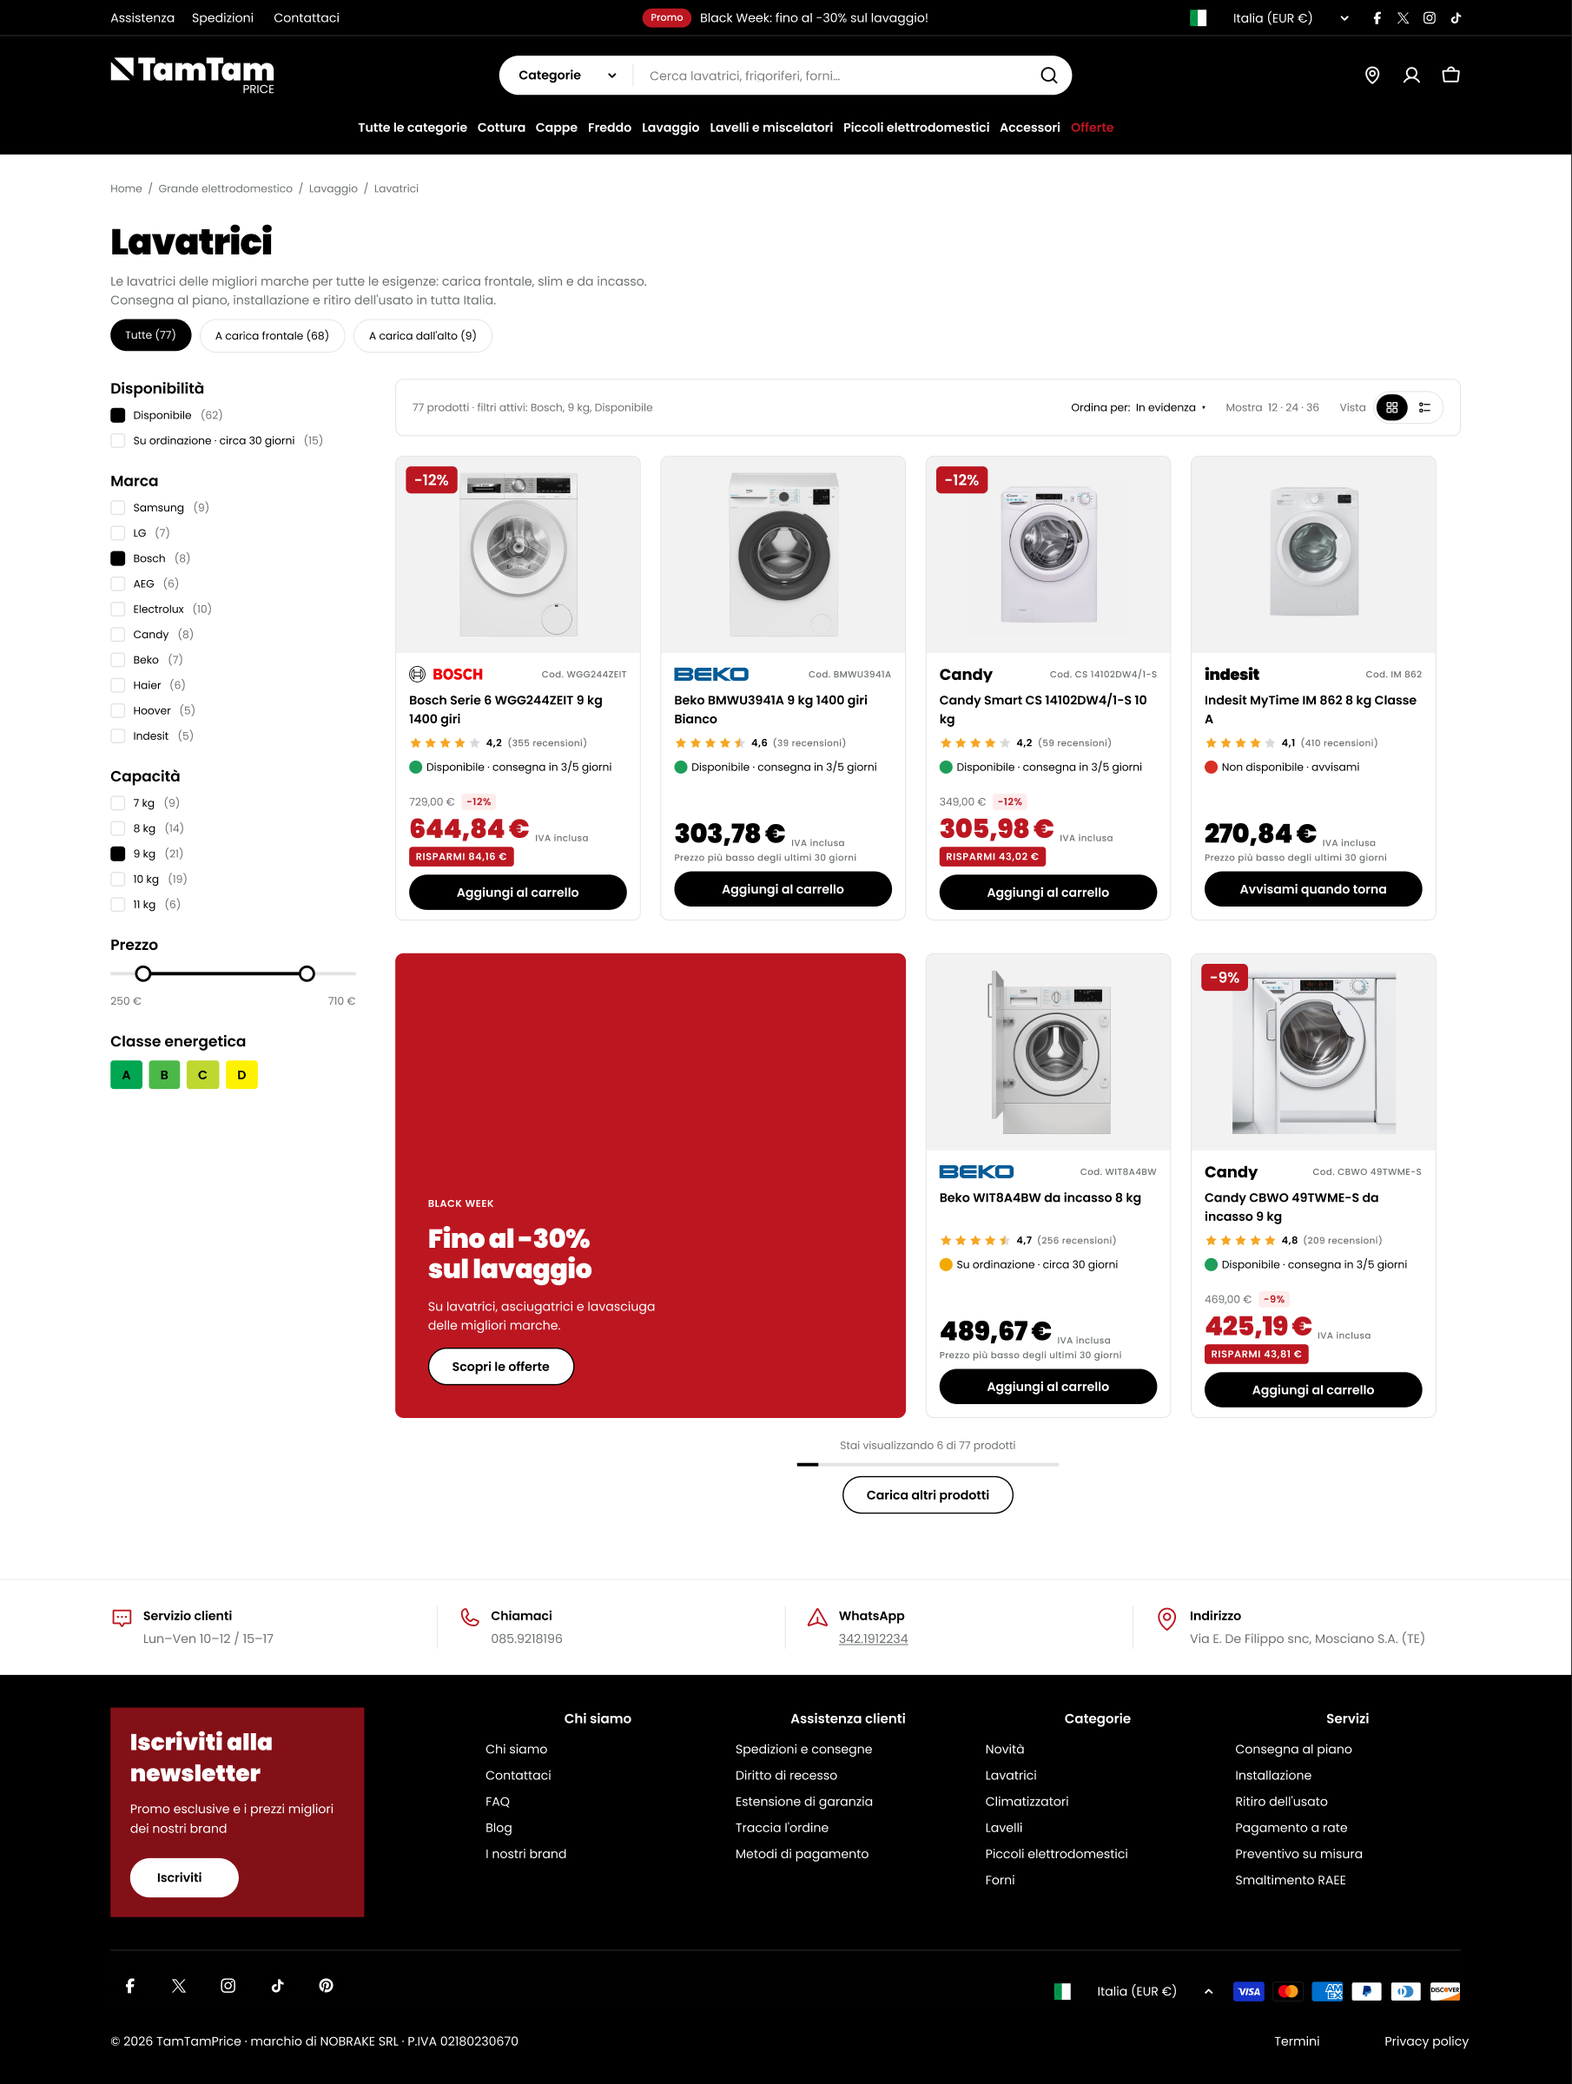
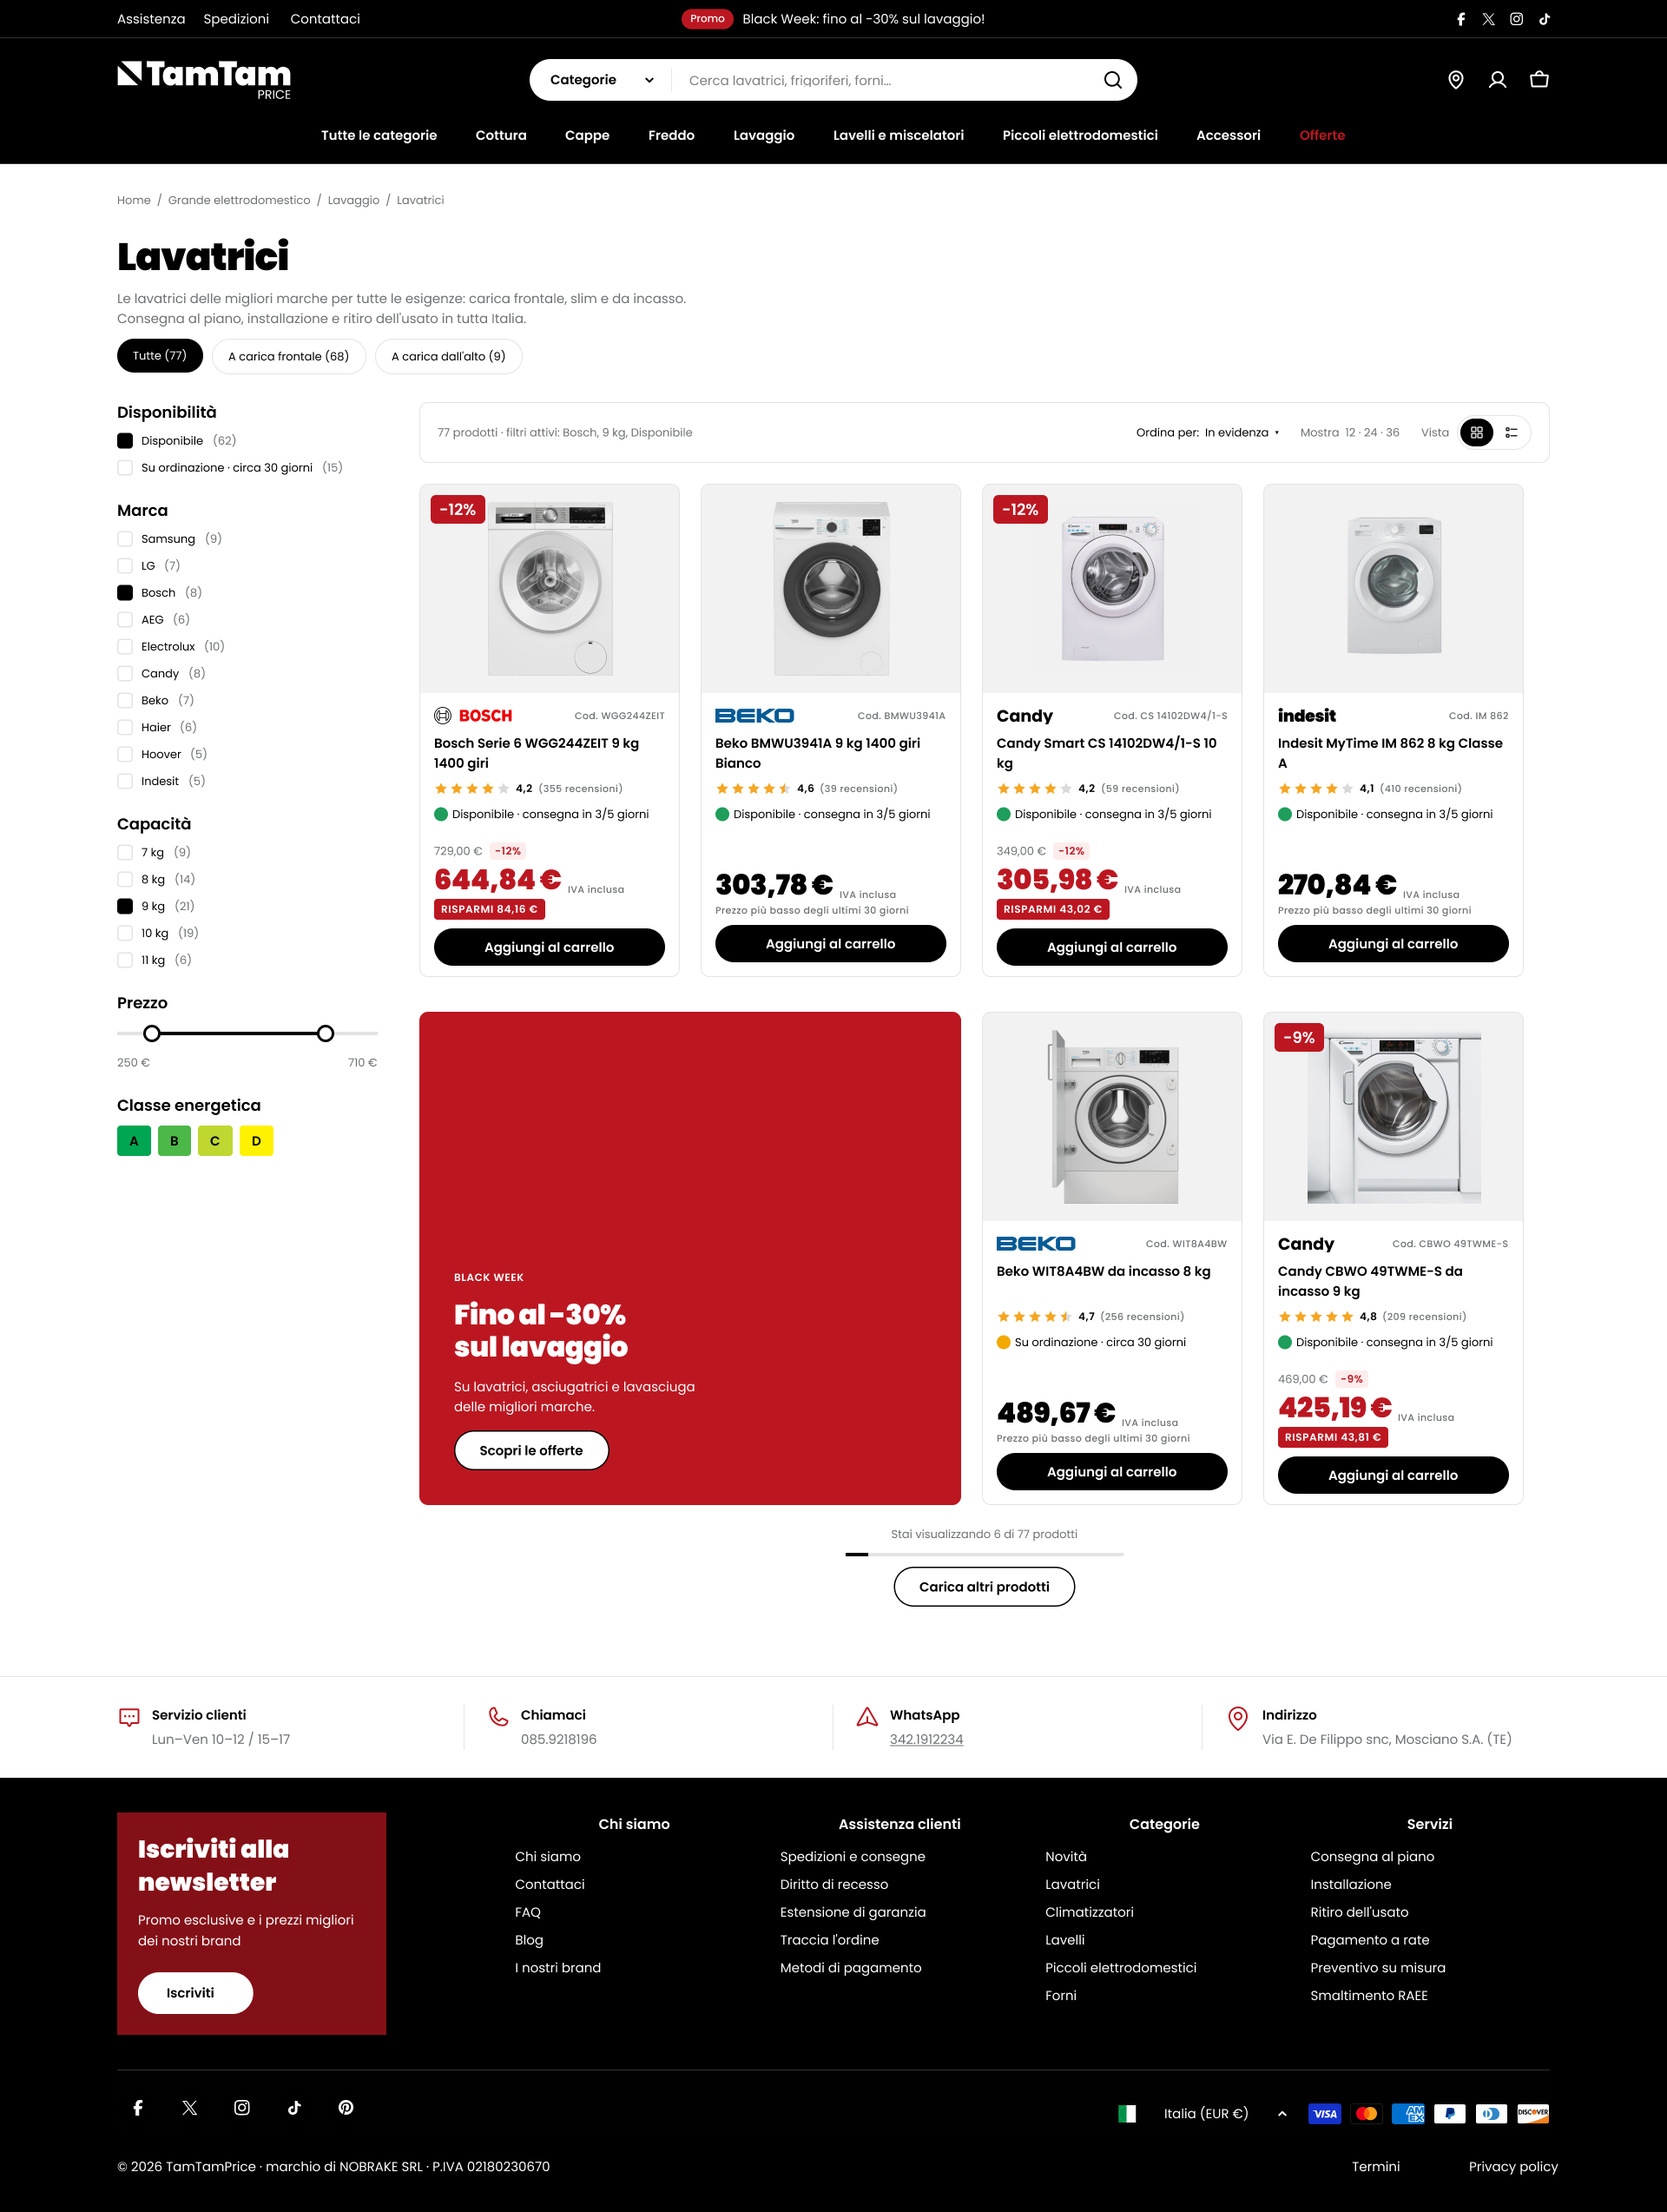
Boards show only green and yellow availability; red kept for the shipping pages
Claude-Session: https://claude.ai/code/session_01DzDcr4Xa4AaqXv1Nbqd2T5

diff --git a/docs/figma/product-cards.md b/docs/figma/product-cards.md
@@ -42,8 +42,13 @@ M03, M09, M11). On the **desktop homepage** the 10 imported cards of "I più ven
 were replaced with `Card prodotto · griglia` instances; the two sections grew by 147 px each and everything below was
 moved down (homepage now 10 290 px tall). The old colour-swatch dots on those cards are gone (no variants).
 
-Examples of the three states: PLP 02 shows Disponibile, Su ordinazione (Beko WIT8A4BW) and Non disponibile (Indesit IM
-862, button "Avvisami quando torna").
+**Rule (2026-11-17):** the boards show only **green** (Disponibile, 3/5 giorni) and **yellow** (Su ordinazione, circa 30
+giorni). The red `Non disponibile` variant stays in the `Disponibilità` component for the theme, but no card, filter or
+list on the boards uses it; the three colours are shown together only on the shipping pages (12 and M14). The former red
+examples (Indesit IM 862 on TamTam, Electrolux FR53R on MisterCucina, Foster Veronika on Trovaincasso, in 02, 02b, M02,
+M02b and the TamTam brand boards 02c / M02c) are now available, with "Aggiungi al carrello". Trovaincasso: the
+"Non disponibile · avvisami" filter option was removed (02, 02b, M07) and the quick-order row (05) reads "Su
+ordinazione · 30 gg".
 
 ## Grid / list view
 
@@ -92,7 +97,6 @@ Trovaincasso. The availability text on Trovaincasso reads "Disponibile · spediz
     The hand-typed code "SMG-909010" on the Smeg card was kept as its SKU (homepage 10 849 px tall).
 - Logos added: Franke, Neff, Elica, Candy, Indesit, Schock (SVG from the brands' websites), Whirlpool (Wikimedia
   Commons), Samsung (Simple Icons). Text placeholders: Foster, Turbo Air, Plados.
-- Non disponibile examples: Electrolux FR53R (MisterCucina PLP and M02), Foster Veronika (Trovaincasso PLP and M02).
 - Renders: `docs/screenshots/after/<brand>-01-home.png`, `-02-plp.png`, `-02b-plp-lista.png`, `-componenti-card.png`;
   `docs/screenshots/mobile/<brand>-m02-plp.png`, `-m02b-plp-lista.png`.
 

diff --git a/CLAUDE.md b/CLAUDE.md
@@ -48,7 +48,8 @@ Full-page renders: `docs/screenshots/after/*.png` (current) and `docs/screenshot
 - **B2C tree and requirements (2026-11-12):**
   - The menus follow the client's B2C category tree.
   - Products have **no variants**: every size or colour is a separate product, so never draw variant selectors.
-  - Availability has 3 states, and the warranty extension is 3 years.
+  - Availability has 3 states, and the warranty extension is 3 years. **On the boards show only green (3/5 giorni)
+    and yellow (circa 30 giorni)**; red "Non disponibile" appears only on the shipping pages (12, M14).
   - **B2B is out of scope** for the MVP.
   - Each page has new boards 06–12: megamenu, L1 category, cart page with invoice request, search, sign in, orders, shipping.
   - Details, node ids and open points are in [docs/figma/pages-b2c.md](docs/figma/pages-b2c.md).
